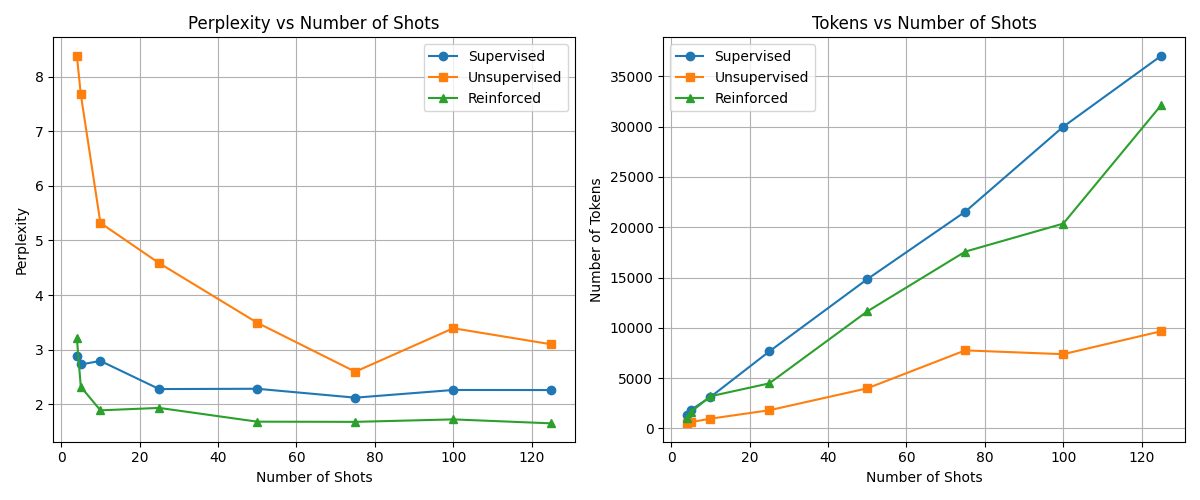
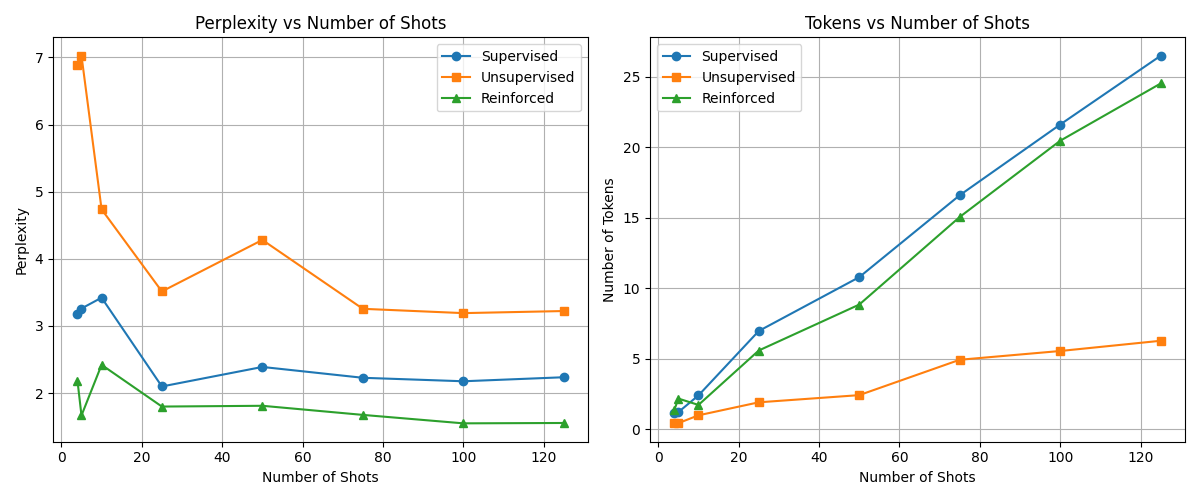
Uncommited changed on babel node

diff --git a/py_scripts/perplexity.py b/py_scripts/perplexity.py
@@ -1,6 +1,8 @@
 import math
 import torch
 import matplotlib.pyplot as plt
+import random
+
 from transformers import AutoTokenizer, AutoModelForCausalLM
 from vllm import LLM, SamplingParams
 
@@ -82,25 +84,61 @@ for num_shots in num_shots_list:
 
     # print(reinforced_prompt)
     
-    supervised_prompt = supervised_prompt_template.format(supervised_prompt, math500_questions[0]["question"])
+    # Sample 30 questions randomly from math500 dataset
+    sampled_questions = random.sample(math500_questions, k=100)
     
-    unsupervised_prompt = unsupervised_prompt_template.format(unsupervised_prompt, math500_questions[0]["question"])
+    supervised_batch_ppl = []
+    unsupervised_batch_ppl = []
+    reinforced_batch_ppl = []
+    supervised_batch_tokens = []
+    unsupervised_batch_tokens = []
+    reinforced_batch_tokens = []
     
-    reinforced_prompt = reinforced_prompt_template.format(reinforced_prompt, math500_questions[0]["question"])
+    # Compute perplexity for each sampled question
+    for question in sampled_questions:
+        sup_prompt = supervised_prompt_template.format(supervised_prompt, question["question"])
+        unsup_prompt = unsupervised_prompt_template.format(unsupervised_prompt, question["question"])
+        reinf_prompt = reinforced_prompt_template.format(reinforced_prompt, question["question"])
+        
+        sup_ppl, sup_tokens = compute_perplexity(sup_prompt)
+        unsup_ppl, unsup_tokens = compute_perplexity(unsup_prompt)
+        reinf_ppl, reinf_tokens = compute_perplexity(reinf_prompt)
+        
+        supervised_batch_ppl.append(sup_ppl)
+        unsupervised_batch_ppl.append(unsup_ppl)
+        reinforced_batch_ppl.append(reinf_ppl)
+        supervised_batch_tokens.append(sup_tokens)
+        unsupervised_batch_tokens.append(unsup_tokens)
+        reinforced_batch_tokens.append(reinf_tokens)
     
-    # print(reinforced_prompt)
-    # exit(0)
+    # Calculate averages
+    supervised_ppl = sum(supervised_batch_ppl) / len(supervised_batch_ppl)
+    unsupervised_ppl = sum(unsupervised_batch_ppl) / len(unsupervised_batch_ppl) 
+    reinforced_ppl = sum(reinforced_batch_ppl) / len(reinforced_batch_ppl)
     
-    supervised_ppl, supervised_tokens = compute_perplexity(supervised_prompt)
-    unsupervised_ppl, unsupervised_tokens = compute_perplexity(unsupervised_prompt)
-    reinforced_ppl, reinforced_tokens = compute_perplexity(reinforced_prompt)
+    supervised_tokens = sum(supervised_batch_tokens) / len(supervised_batch_tokens)
+    unsupervised_tokens = sum(unsupervised_batch_tokens) / len(unsupervised_batch_tokens)
+    reinforced_tokens = sum(reinforced_batch_tokens) / len(reinforced_batch_tokens)
+    
+    # supervised_prompt = supervised_prompt_template.format(supervised_prompt, math500_questions[0]["question"])
+    
+    # unsupervised_prompt = unsupervised_prompt_template.format(unsupervised_prompt, math500_questions[0]["question"])
+    
+    # reinforced_prompt = reinforced_prompt_template.format(reinforced_prompt, math500_questions[0]["question"])
+    
+    # # print(reinforced_prompt)
+    # # exit(0)
+    
+    # supervised_ppl, supervised_tokens = compute_perplexity(supervised_prompt)
+    # unsupervised_ppl, unsupervised_tokens = compute_perplexity(unsupervised_prompt)
+    # reinforced_ppl, reinforced_tokens = compute_perplexity(reinforced_prompt)
     
     supervised_ppls.append(supervised_ppl)
     unsupervised_ppls.append(unsupervised_ppl)
     reinforced_ppls.append(reinforced_ppl)
-    supervised_tokens_list.append(supervised_tokens)
-    unsupervised_tokens_list.append(unsupervised_tokens)
-    reinforced_tokens_list.append(reinforced_tokens)
+    supervised_tokens_list.append(supervised_tokens / 1280)
+    unsupervised_tokens_list.append(unsupervised_tokens / 1280)
+    reinforced_tokens_list.append(reinforced_tokens / 1280)
     
     print(f"Num shots: {num_shots}")
     print(f"Supervised Perplexity: {supervised_ppl} ({supervised_tokens} tokens)")
